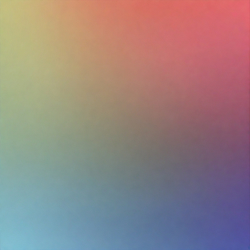
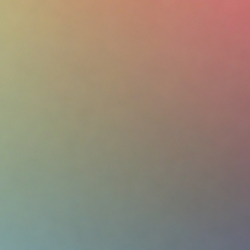
series pagination, base-image fixed random

diff --git a/components/timeline/timeilneHeader.tsx b/components/timeline/timeilneHeader.tsx
@@ -4,7 +4,7 @@ import {selectCurrentTimeline} from "@/store/slices/contentsSlice";
 import Image from "next/image";
 import {updateIsShare} from "@/store/slices/appearanceSlice";
 import Link from "next/link";
-import {getClickOrTouch, getIsBaseImage, getScrollWrapper} from "@/utils/global";
+import {getClickOrTouch, getIsBaseImage, getScrollWrapper, mapStrToNum} from "@/utils/global";
 
 const TimelineHeader = () => {
     const shareButtonRef : RefObject<HTMLDivElement> = useRef(null)
@@ -71,7 +71,7 @@ const TimelineHeader = () => {
                             ?   <>
                                     <div className={'relative w-full h-full rounded-sm bg-gray-500 text-white flex items-center justify-center text-sm font-medium'}>
                                         <span className={'absolute'}>{currentTimeline.name.charAt(0).toUpperCase()}</span>
-                                        <Image src={`/images/base-image/base-image${Math.floor(Math.random() * 4) + 21}.jpg`} alt={'base-image'} width={28} height={28} priority={true} className={'rounded-sm'} />
+                                        <Image src={`/images/base-image/base-image${mapStrToNum(currentTimeline.name)}.jpg`} alt={'base-image'} width={28} height={28} priority={true} className={'rounded-sm'} />
                                     </div>
                                 </>
                             :   <Image className={'rounded-sm'} src={currentTimeline.image} alt={currentTimeline.name} width={28} height={28} />

diff --git a/components/series/swiperCard.tsx b/components/series/swiperCard.tsx
@@ -1,7 +1,7 @@
 import React from 'react';
 import Image from "next/image";
 import Link from "next/link";
-import {getIsBaseImage} from "@/utils/global";
+import {getIsBaseImage, mapStrToNum} from "@/utils/global";
 import {SeriesTimeline} from "@/store/slices/contentsSlice";
 
 const SwiperCard = ({timeline} : {timeline: SeriesTimeline}) => {
@@ -10,7 +10,7 @@ const SwiperCard = ({timeline} : {timeline: SeriesTimeline}) => {
     return (
             <Link href={`/timelines/${timeline.id}`} className={'swiperCard relative shrink-0 rounded-xl shadow-md'}>
                 {isBaseImage
-                    ?   <Image src={`/images/base-image/base-image${Math.floor(Math.random() * 4) + 21}.jpg`} alt={'base-image'} fill sizes={"(min-width: 520px) 137px, calc(48vw - 38px)"} priority={true} quality={100} className={'rounded-xl'} />
+                    ?   <Image src={`/images/base-image/base-image${mapStrToNum(timeline.name)}.jpg`} alt={'base-image'} fill sizes={"(min-width: 520px) 137px, calc(48vw - 38px)"} priority={true} quality={100} className={'rounded-xl'} />
                     :   <>
                             <Image src={timeline.image} alt={timeline.name} fill sizes={"(min-width: 520px) 137px, calc(48vw - 38px)"} priority={true} quality={100} className={'rounded-xl'} />
                             <div className={'absolute top-0 left-0 w-full h-full rounded-xl bg-gradient-to-b from-transparent via-50% via-transparent to-black opacity-80'}></div>

diff --git a/components/series/seriesCard.tsx b/components/series/seriesCard.tsx
@@ -1,7 +1,7 @@
 import React from 'react';
 import Image from "next/image";
 import Link from "next/link";
-import {getIsBaseImage} from "@/utils/global";
+import {getIsBaseImage, mapStrToNum} from "@/utils/global";
 import {SeriesTimeline} from "@/store/slices/contentsSlice";
 
 const SeriesCard = ({timeline} : {timeline: SeriesTimeline}) => {
@@ -10,7 +10,7 @@ const SeriesCard = ({timeline} : {timeline: SeriesTimeline}) => {
     return (
         <Link href={`/timelines/${timeline.id}`} className={'seriesCard relative shrink-0 rounded-xl shadow-md'}>
             {isBaseImage
-                ?   <Image src={`/images/base-image/base-image${Math.floor(Math.random() * 4) + 21}.jpg`} alt={'base-image'} fill sizes={"(min-width: 520px) 137px, calc(48vw - 38px)"} priority={true} quality={100} className={'rounded-xl'} />
+                ?   <Image src={`/images/base-image/base-image${mapStrToNum(timeline.name)}.jpg`} alt={'base-image'} fill sizes={"(min-width: 520px) 137px, calc(48vw - 38px)"} priority={true} quality={100} className={'rounded-xl'} />
                 :   <>
                     <Image src={timeline.image} alt={timeline.name} fill sizes={"(min-width: 520px) 137px, calc(48vw - 38px)"} priority={true} quality={100} className={'rounded-xl'} />
                     <div className={'absolute top-0 left-0 w-full h-full rounded-xl bg-gradient-to-b from-transparent via-50% via-transparent to-black opacity-80'}></div>

diff --git a/components/event/relatedTimeline.tsx b/components/event/relatedTimeline.tsx
@@ -3,7 +3,7 @@ import Link from "next/link";
 import {useSelector} from "react-redux";
 import {selectCurrentEvent} from "@/store/slices/contentsSlice";
 import Image from "next/image";
-import {getIsBaseImage} from "@/utils/global";
+import {getIsBaseImage, mapStrToNum} from "@/utils/global";
 
 const RelatedTimeline = () => {
     const currentEvent = useSelector(selectCurrentEvent)
@@ -21,7 +21,7 @@ const RelatedTimeline = () => {
                                     ?   <>
                                             <div className={'relative w-full h-full rounded-md bg-gray-500 text-white flex items-center justify-center text-lg font-medium'}>
                                                 <span className={'absolute'}>{tI.name.charAt(0).toUpperCase()}</span>
-                                                <Image src={`/images/base-image/base-image${Math.floor(Math.random() * 4) + 21}.jpg`} alt={'base-image'} width={45} height={45} priority={true} className={'rounded-md'} />
+                                                <Image src={`/images/base-image/base-image${mapStrToNum(tI.name)}.jpg`} alt={'base-image'} width={45} height={45} priority={true} className={'rounded-md'} />
                                             </div>
                                         </>
                                     :   <Image src={tI.image} alt={tI.name} width={45} height={45} className={'rounded-md'}/>

diff --git a/components/layout/search/searchContent.tsx b/components/layout/search/searchContent.tsx
@@ -3,7 +3,7 @@ import Image from "next/image";
 import React from "react";
 import {useSelector} from "react-redux";
 import {selectTab} from "@/store/slices/searchSlice";
-import {getIsBaseImage} from "@/utils/global";
+import {getIsBaseImage, mapStrToNum} from "@/utils/global";
 // refactoring: clear
 
 const SearchContent = ({searchResult}: {searchResult: any}) => {
@@ -18,7 +18,7 @@ const SearchContent = ({searchResult}: {searchResult: any}) => {
                         ?   <>
                                 <div className={'relative w-[28px] h-[28px] rounded-sm text-white flex items-center justify-center text-sm'}>
                                     <span className={'absolute'}>{searchResult.name.charAt(0).toUpperCase()}</span>
-                                    <Image src={`/images/base-image/base-image${21}.jpg`} alt={'base-image'} width={28} height={28} priority={true} className={'rounded-sm'} />
+                                    <Image src={`/images/base-image/base-image${mapStrToNum(searchResult.name)}.jpg`} alt={'base-image'} width={28} height={28} priority={true} className={'rounded-sm'} />
                                 </div>
                             </>
                         :   <Image className={'rounded-sm'} src={searchResult.imageUrl} alt={searchResult.name} width={28} height={28} priority={true}/>

diff --git a/components/timeline/timelineEvents.tsx b/components/timeline/timelineEvents.tsx
@@ -4,8 +4,8 @@ import EventBox from "@/components/timeline/eventBox";
 import {selectCurrentEventsWithEffect} from "@/store/slices/contentsSlice";
 import React from "react";
 import {selectIsBottomEnd, selectIsTopEnd} from "@/store/slices/appearanceSlice";
-import TimelineEventsTop from "@/components/timeline/timelineEventsTop";
-import TimelineEventsBottom from "@/components/timeline/timelineEventsBottom";
+import TimelineTop from "@/components/timeline/timelineTop";
+import TimelineBottom from "@/components/timeline/timelineBottom";
 // refactoring: clear
 
 const TimelineEvents = () => {
@@ -15,12 +15,12 @@ const TimelineEvents = () => {
 
     return (
         <div className={'timelineEvents max-w-[650px] flex flex-col mx-4'} style={{width: `calc(100% - 32px)`}}>
-            <TimelineEventsTop isEnd={isTopEnd} />
+            <TimelineTop isEnd={isTopEnd} />
             {/*<EventBox event={testEvent} />*/}
             {currentEventsWithEffect.map((event: TimelineEvent) => {
                 return <EventBox key={event.id} event={event} />
             })}
-            <TimelineEventsBottom isEnd={isBottomEnd} />
+            <TimelineBottom isEnd={isBottomEnd} />
         </div>
     )
 }

diff --git a/utils/global.ts b/utils/global.ts
@@ -1,4 +1,5 @@
 import {TimelineEvent} from "@/store/slices/contentsSlice";
+import crypto from 'crypto'
 // refactoring: clear
 
 // variables
@@ -59,4 +60,12 @@ export const formatDate = (date: string | undefined) => {
     const formattedMonth = months[parseInt(month, 10) - 1];
 
     return `${formattedMonth} ${parseInt(day, 10)}, ${year}`;
+}
+
+export const mapStrToNum = (inputString : string) => {
+    const hash1 = crypto.createHash('sha256').update(inputString).digest('hex');
+    const hash2 = crypto.createHash('md5').update(inputString).digest('hex');
+    const combinedHash = hash1 + hash2;
+    let hashedNumber = BigInt('0x' + combinedHash); // Use BigInt to handle large numbers
+    return Number((hashedNumber % BigInt(4)) + BigInt(1));
 }

diff --git a/components/timeline/timelineBottom.tsx b/components/timeline/timelineBottom.tsx
@@ -3,7 +3,7 @@ import TimelineHeader from "@/components/timeline/timeilneHeader";
 import {useSelector} from "react-redux";
 import {selectCurrentTimeline} from "@/store/slices/contentsSlice";
 
-const TimelineEventsBottom = ({isEnd}:{isEnd: boolean}) => {
+const TimelineBottom = ({isEnd}:{isEnd: boolean}) => {
     const currentTimeline = useSelector(selectCurrentTimeline)
 
     return (
@@ -19,4 +19,4 @@ const TimelineEventsBottom = ({isEnd}:{isEnd: boolean}) => {
     );
 };
 
-export default TimelineEventsBottom;
+export default TimelineBottom;

diff --git a/components/timeline/timelineTop.tsx b/components/timeline/timelineTop.tsx
@@ -1,7 +1,7 @@
 import React from 'react';
 import TimelineHeader from "@/components/timeline/timeilneHeader";
 
-const TimelineEventsTop = ({isEnd} : {isEnd: boolean}) => {
+const TimelineTop = ({isEnd} : {isEnd: boolean}) => {
     return (
         <div className={'timelineEventsTop flex items-center h-[60px] w-full mb-1.5'} style={{zIndex: 4999}}>
             {isEnd
@@ -12,4 +12,4 @@ const TimelineEventsTop = ({isEnd} : {isEnd: boolean}) => {
     );
 };
 
-export default TimelineEventsTop;
+export default TimelineTop;

diff --git a/components/series/seriesBottom.tsx b/components/series/seriesBottom.tsx
@@ -8,7 +8,7 @@ const SeriesBottom = () => {
     const isBottomEnd = useSelector(selectIsBottomEnd)
 
     return (
-        <div className={'w-full mt-2.5 h-[60px] shrink-0 flex justify-center items-center'}>
+        <div className={'seriesBottom w-full mt-2.5 h-[60px] shrink-0 flex justify-center items-center'}>
             {isBottomEnd
                 ?   <div className={'text-sm text-center italic pb-[10px]'}>
                         End of the Series<br/>

diff --git a/styles/global.css b/styles/global.css
@@ -177,7 +177,7 @@ html, body, #__next, .layout, .page {
     }
 }
 @media (min-width: 1016px) {
-    .seriesBody, .seriesHeader {
+    .seriesBody, .seriesHeader, .seriesBottom {
         grid-template-columns: repeat(5, 1fr);
         max-width: 996px;
     }
